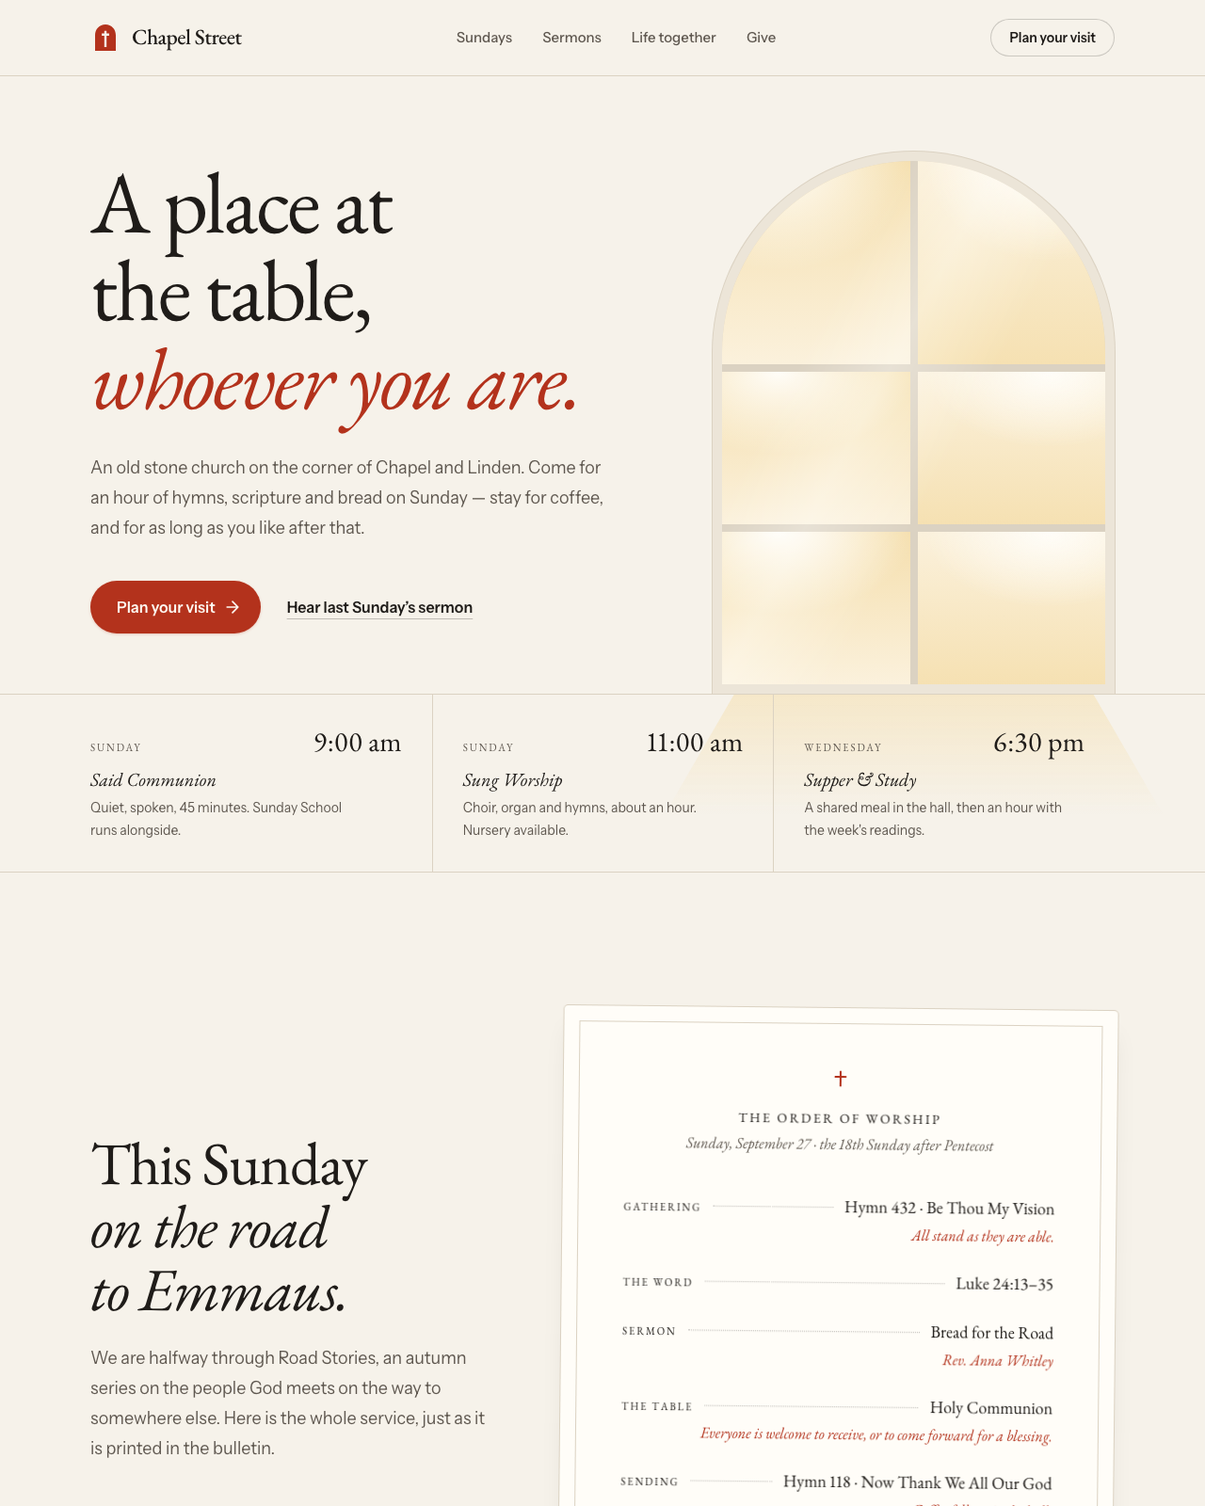
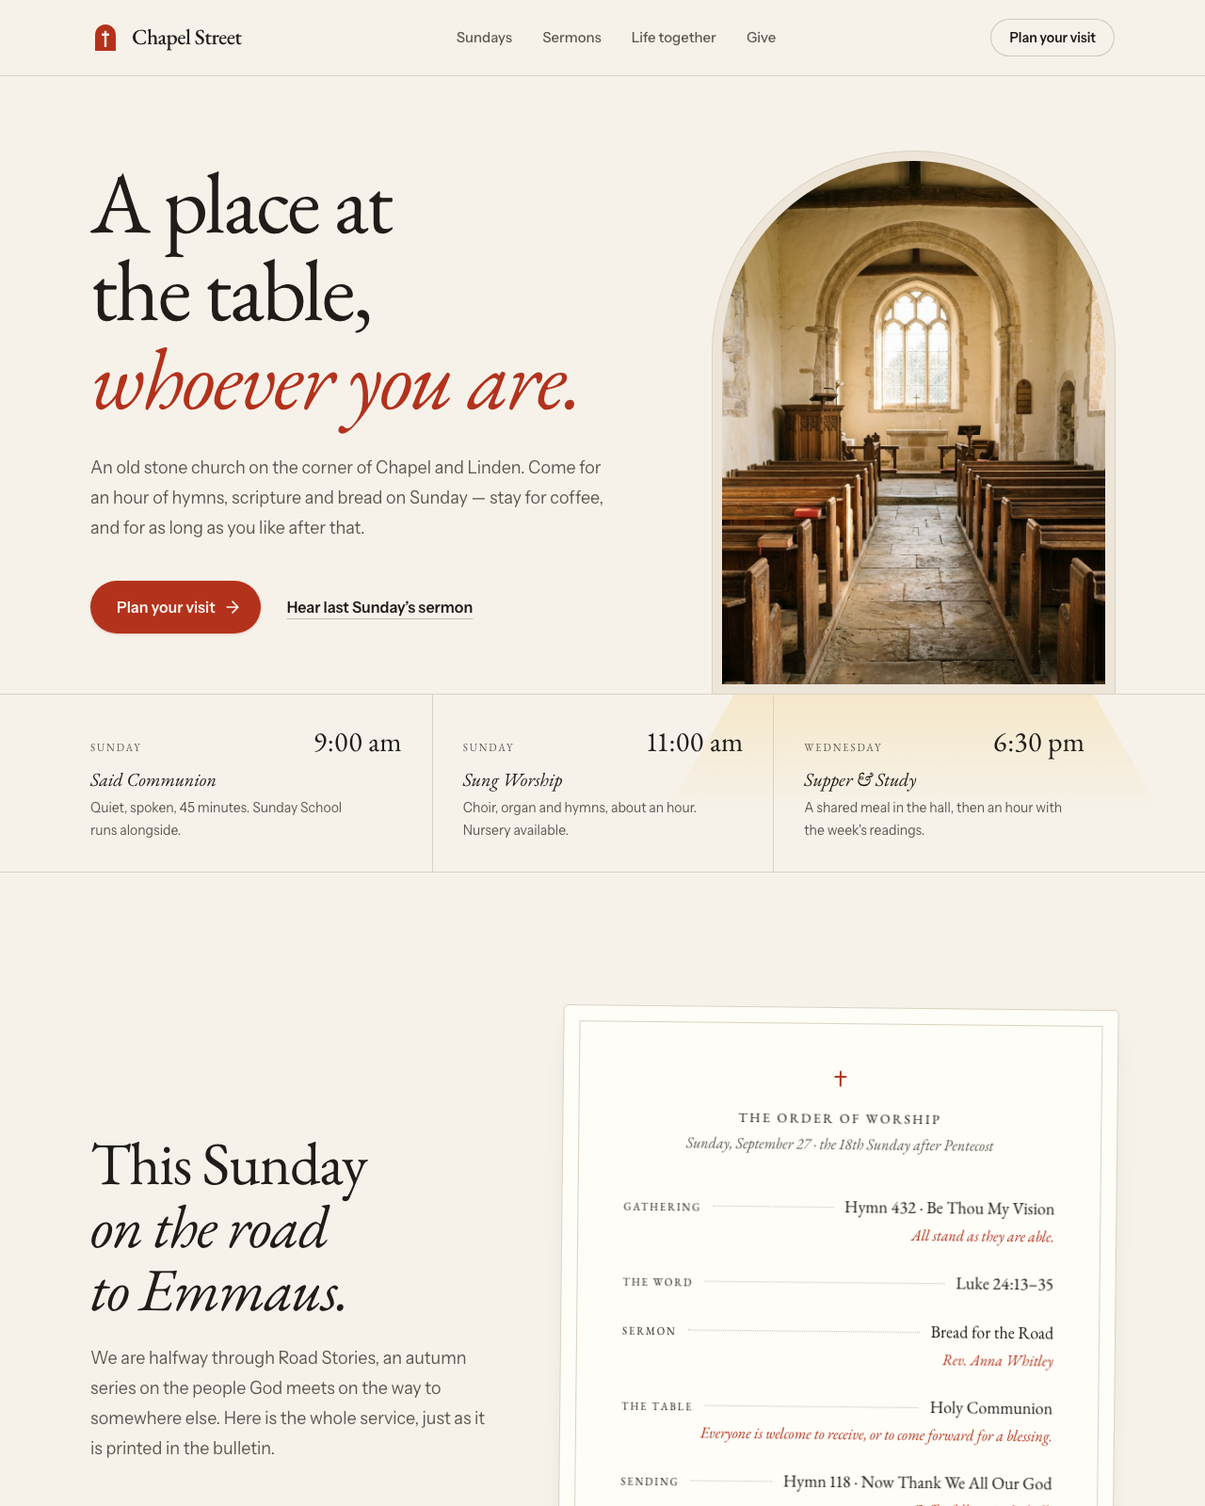
Adding latest

Changed region(s): [[0.5938, 0.0938, 0.9375, 0.4688]]

diff --git a/commons/files/resources/css/site.css b/commons/files/resources/css/site.css
@@ -37,6 +37,34 @@
     mix-blend-mode: multiply;
 }
 
+/* A photograph pulled through the blue drum: shadows print in the ink,
+   highlights stay paper. The photo is made grayscale and screened over the
+   ink, so any picture dropped in comes out in the poster's palette. */
+@utility riso-ink {
+    isolation: isolate;
+    background-color: var(--color-ink);
+
+    & > img {
+        filter: grayscale(1) contrast(1.15);
+        mix-blend-mode: screen;
+    }
+
+    &::after {
+        content: '';
+        position: absolute;
+        inset: 0;
+        background-color: var(--color-canvas);
+        mix-blend-mode: multiply;
+        pointer-events: none;
+    }
+}
+
+/* Inside the overprint sun the photograph fades out toward the headline,
+   so the words it overlaps stay on flat pink. */
+@utility riso-fade {
+    mask-image: linear-gradient(100deg, transparent 22%, #000 62%);
+}
+
 /* A hundred cents: one tick per percent of the bar's width, and every
    tenth tick runs the full height like the long marks on a ruler. Masks
    whatever colored segments sit underneath. */

diff --git a/torque/files/resources/views/components/sections/book.blade.php b/torque/files/resources/views/components/sections/book.blade.php
@@ -4,6 +4,8 @@
     'afterHoursLabel' => 'After hours?',
     'afterHours' => 'Leave your keys in the drop box by the front door with a note. We’ll call you first thing.',
     'directionsLabel' => 'Get directions',
+    'image' => '/images/shop.jpg',
+    'imageAlt' => 'The shop from the street: a white brick building with two open service bays and a car up on the lift',
 ])
 <section id="book" class="scroll-mt-18 py-20 lg:py-28">
     <div class="mx-auto grid max-w-7xl grid-cols-1 gap-14 px-5 sm:px-8 lg:grid-cols-12 lg:gap-12">
@@ -26,29 +28,34 @@
         </div>
 
         <div class="lg:col-span-5">
-            <div class="rounded-xl bg-surface p-7 ring-1 ring-line sm:p-9">
-                <h3 class="font-display text-lg font-bold tracking-wide text-ink uppercase">Hours</h3>
-                <dl class="mt-4 divide-y divide-line border-y border-line">
-                    @foreach ($hours as $row)
-                        <div class="flex justify-between gap-4 py-3 text-base">
-                            <dt class="text-muted">{{ $row->day }}</dt>
-                            <dd class="font-semibold text-ink tabular-nums">{{ $row->hours }}</dd>
-                        </div>
-                    @endforeach
-                </dl>
-                <p class="mt-4 text-base/7 text-muted sm:text-sm/6">{{ $site->hours_note }}</p>
+            <div class="overflow-hidden rounded-xl bg-surface ring-1 ring-line">
+                @if ($image)
+                    <img src="{{ $image }}" alt="{{ $imageAlt }}" width="1376" height="768" loading="lazy" decoding="async" class="aspect-[16/9] w-full border-b border-line object-cover">
+                @endif
+                <div class="p-7 sm:p-9">
+                    <h3 class="font-display text-lg font-bold tracking-wide text-ink uppercase">Hours</h3>
+                    <dl class="mt-4 divide-y divide-line border-y border-line">
+                        @foreach ($hours as $row)
+                            <div class="flex justify-between gap-4 py-3 text-base">
+                                <dt class="text-muted">{{ $row->day }}</dt>
+                                <dd class="font-semibold text-ink tabular-nums">{{ $row->hours }}</dd>
+                            </div>
+                        @endforeach
+                    </dl>
+                    <p class="mt-4 text-base/7 text-muted sm:text-sm/6">{{ $site->hours_note }}</p>
 
-                <h3 class="mt-10 font-display text-lg font-bold tracking-wide text-ink uppercase">Find the shop</h3>
-                <address class="mt-3 text-lg/8 text-ink not-italic">
-                    {{ $site->address }}<br>
-                    {{ $site->city }}
-                </address>
-                <div class="mt-5 flex flex-wrap items-center gap-x-6 gap-y-3">
-                    <a href="{{ $site->map_url }}" class="inline-flex items-center gap-2 rounded-md px-4 py-3 text-base font-semibold text-ink ring-1 ring-ink/30 transition-colors duration-150 ring-inset hover:bg-ink hover:text-canvas focus-visible:outline-2 focus-visible:outline-offset-2 focus-visible:outline-primary">
-                        <svg xmlns="http://www.w3.org/2000/svg" viewBox="0 0 20 20" fill="currentColor" class="size-5 shrink-0" aria-hidden="true"><path fill-rule="evenodd" d="m9.69 18.933.003.001C9.89 19.02 10 19 10 19s.11.02.308-.066l.002-.001.006-.003.018-.008a5.741 5.741 0 0 0 .281-.14c.186-.096.446-.24.757-.433.62-.384 1.445-.966 2.274-1.765C15.302 14.988 17 12.493 17 9A7 7 0 1 0 3 9c0 3.492 1.698 5.988 3.355 7.584a13.731 13.731 0 0 0 2.273 1.765 11.842 11.842 0 0 0 .976.544l.062.029.018.008.006.003ZM10 11.25a2.25 2.25 0 1 0 0-4.5 2.25 2.25 0 0 0 0 4.5Z" clip-rule="evenodd"/></svg>
-                        {{ $directionsLabel }}
-                    </a>
-                    <a href="mailto:{{ $site->email }}" class="rounded-sm py-2 text-base text-muted underline decoration-muted/40 underline-offset-4 transition-colors duration-150 hover:text-ink hover:decoration-ink focus-visible:outline-2 focus-visible:outline-offset-2 focus-visible:outline-primary">{{ $site->email }}</a>
+                    <h3 class="mt-10 font-display text-lg font-bold tracking-wide text-ink uppercase">Find the shop</h3>
+                    <address class="mt-3 text-lg/8 text-ink not-italic">
+                        {{ $site->address }}<br>
+                        {{ $site->city }}
+                    </address>
+                    <div class="mt-5 flex flex-wrap items-center gap-x-6 gap-y-3">
+                        <a href="{{ $site->map_url }}" class="inline-flex items-center gap-2 rounded-md px-4 py-3 text-base font-semibold text-ink ring-1 ring-ink/30 transition-colors duration-150 ring-inset hover:bg-ink hover:text-canvas focus-visible:outline-2 focus-visible:outline-offset-2 focus-visible:outline-primary">
+                            <svg xmlns="http://www.w3.org/2000/svg" viewBox="0 0 20 20" fill="currentColor" class="size-5 shrink-0" aria-hidden="true"><path fill-rule="evenodd" d="m9.69 18.933.003.001C9.89 19.02 10 19 10 19s.11.02.308-.066l.002-.001.006-.003.018-.008a5.741 5.741 0 0 0 .281-.14c.186-.096.446-.24.757-.433.62-.384 1.445-.966 2.274-1.765C15.302 14.988 17 12.493 17 9A7 7 0 1 0 3 9c0 3.492 1.698 5.988 3.355 7.584a13.731 13.731 0 0 0 2.273 1.765 11.842 11.842 0 0 0 .976.544l.062.029.018.008.006.003ZM10 11.25a2.25 2.25 0 1 0 0-4.5 2.25 2.25 0 0 0 0 4.5Z" clip-rule="evenodd"/></svg>
+                            {{ $directionsLabel }}
+                        </a>
+                        <a href="mailto:{{ $site->email }}" class="rounded-sm py-2 text-base text-muted underline decoration-muted/40 underline-offset-4 transition-colors duration-150 hover:text-ink hover:decoration-ink focus-visible:outline-2 focus-visible:outline-offset-2 focus-visible:outline-primary">{{ $site->email }}</a>
+                    </div>
                 </div>
             </div>
         </div>

diff --git a/torque/files/resources/views/components/sections/process.blade.php b/torque/files/resources/views/components/sections/process.blade.php
@@ -3,6 +3,9 @@
     'body' => 'Here’s how every job goes, from the minute you hand over the keys.',
     'estimateLabel' => 'A real estimate, the way you’ll get it',
     'warrantyLabel' => 'Every repair is covered for',
+    'image' => '/images/inspection.jpg',
+    'imageAlt' => 'A technician’s gloved hand pointing a flashlight at a worn brake pad and scored rotor',
+    'imageCaption' => 'What we found: front pads at 2 mm, rotors scored.',
 ])
 <section id="process" class="scroll-mt-18 border-y border-line bg-surface py-20 lg:py-28">
     <div class="mx-auto grid max-w-7xl grid-cols-1 gap-16 px-5 sm:px-8 lg:grid-cols-12 lg:gap-12">
@@ -40,6 +43,15 @@
                     </div>
                     <p class="rounded-md bg-surface px-3 py-1.5 font-display text-lg font-bold tracking-[0.12em] text-ink uppercase tabular-nums ring-2 ring-ink/80">{{ $site->estimate->plate }}</p>
                 </div>
+                @if ($image)
+                    <div class="border-b border-line p-3 sm:p-4">
+                        <img src="{{ $image }}" alt="{{ $imageAlt }}" width="1264" height="848" loading="lazy" decoding="async" class="aspect-[16/9] w-full rounded-md object-cover">
+                        <p class="mt-3 flex items-center gap-2.5 px-3 text-sm text-muted sm:px-4">
+                            <svg xmlns="http://www.w3.org/2000/svg" viewBox="0 0 20 20" fill="currentColor" class="size-4 shrink-0 text-ink" aria-hidden="true"><path fill-rule="evenodd" d="M1 8a2 2 0 0 1 2-2h.93a2 2 0 0 0 1.664-.89l.812-1.22A2 2 0 0 1 8.07 3h3.86a2 2 0 0 1 1.664.89l.812 1.22A2 2 0 0 0 16.07 6H17a2 2 0 0 1 2 2v7a2 2 0 0 1-2 2H3a2 2 0 0 1-2-2V8Zm13.5 3a4.5 4.5 0 1 1-9 0 4.5 4.5 0 0 1 9 0ZM10 14a3 3 0 1 0 0-6 3 3 0 0 0 0 6Z" clip-rule="evenodd"/></svg>
+                            {{ $imageCaption }}
+                        </p>
+                    </div>
+                @endif
                 <table class="w-full text-left">
                     <caption class="sr-only">Estimate line items</caption>
                     <thead class="sr-only">

diff --git a/tend/files/resources/views/components/sections/intro.blade.php b/tend/files/resources/views/components/sections/intro.blade.php
@@ -6,14 +6,14 @@
     'bodyTwo' => 'I’ve spent twelve years working with adults and couples in community clinics and private practice. You won’t get homework you didn’t ask for or jargon you have to decode. You will get someone who remembers what you said last week.',
     'approaches' => 'Emotionally Focused Therapy · CBT · ACT · Gottman Method, Level 2',
     'signature' => 'Nora',
-    'image' => '',
-    'imageAlt' => 'Portrait of Nora Lind in her Portland office',
+    'image' => '/images/nora.jpg',
+    'imageAlt' => 'Nora Lind in a slate-blue sweater, sitting in an armchair in her Portland office',
 ])
 <section id="about" aria-labelledby="about-heading" class="scroll-mt-8 py-24 lg:py-32">
     <div class="mx-auto grid max-w-6xl items-start gap-12 px-5 sm:px-8 lg:grid-cols-[5fr_7fr] lg:gap-20">
         <figure class="max-w-md lg:sticky lg:top-10">
             @if ($image)
-                <img src="{{ $image }}" alt="{{ $imageAlt }}" width="800" height="1000" loading="lazy" decoding="async" class="aspect-[4/5] w-full rounded-[1.5rem] object-cover outline-1 -outline-offset-1 outline-ink/5">
+                <img src="{{ $image }}" alt="{{ $imageAlt }}" width="928" height="1152" loading="lazy" decoding="async" class="aspect-[4/5] w-full rounded-[1.5rem] object-cover outline-1 -outline-offset-1 outline-ink/5">
             @else
                 <div class="sky-dawn relative isolate grid aspect-[4/5] w-full place-items-center overflow-hidden rounded-[1.5rem]" role="img" aria-label="{{ $imageAlt }}">
                     <div class="absolute -bottom-[34%] left-1/2 -z-10 size-[64%] -translate-x-1/2 rounded-full bg-primary blur-[1px]" aria-hidden="true"></div>

diff --git a/commons/files/resources/views/components/sections/hero.blade.php b/commons/files/resources/views/components/sections/hero.blade.php
@@ -3,6 +3,7 @@
     'body' => 'Groceries twice a week, supper every Thursday, help with the rent when a month goes wrong. Run by neighbors, out of one hall on Alder Street, since 2011.',
     'secondaryLabel' => 'Volunteer with us',
     'secondaryLink' => '/get-involved',
+    'image' => '/images/crate.jpg',
 ])
 <section class="relative overflow-hidden">
     <div class="mx-auto max-w-7xl px-5 pt-14 pb-20 sm:px-6 lg:px-8 lg:pt-20 lg:pb-28">
@@ -10,7 +11,13 @@
             <h1 data-settle class="relative max-w-[11ch] font-display text-[clamp(3.25rem,10vw,7.25rem)] leading-[0.9] font-extrabold tracking-[-0.04em] text-balance text-ink">{{ $heading }}</h1>
             <div data-drum class="overprint pointer-events-none absolute z-10 -top-6 right-[-22%] size-[clamp(12rem,48vw,40rem)] sm:-top-16 sm:right-[-6%] lg:right-[2%]" aria-hidden="true">
                 <div class="halftone absolute inset-0 translate-x-[3%] translate-y-[4%] rounded-full text-ink/15"></div>
-                <div class="absolute inset-0 rounded-full bg-primary"></div>
+                <div class="absolute inset-0 overflow-hidden rounded-full bg-primary">
+                    @if ($image)
+                        <div class="riso-ink riso-fade absolute inset-0 mix-blend-multiply">
+                            <img src="{{ $image }}" alt="" aria-hidden="true" width="1024" height="1024" class="absolute -top-[24%] -left-[15%] size-[130%] max-w-none object-cover">
+                        </div>
+                    @endif
+                </div>
             </div>
         </div>
         <div class="relative z-20 mt-12 grid gap-12 lg:mt-10 lg:grid-cols-[1fr_minmax(0,26rem)] lg:items-start lg:gap-20">

diff --git a/commons/files/resources/views/components/sections/visit.blade.php b/commons/files/resources/views/components/sections/visit.blade.php
@@ -3,6 +3,8 @@
     'body' => 'Shopping the pantry, dropping off a bag of groceries, or just curious — the door on Alder Street is open, and someone will show you around.',
     'directionsLabel' => 'Get directions',
     'closingLine' => 'Can’t make it over? Give from wherever you are.',
+    'image' => '/images/hall.jpg',
+    'imageAlt' => 'The brick hall on Alder Street with its doors propped open and a cart of grocery boxes by the entrance',
 ])
 <section id="visit" aria-labelledby="visit-heading" class="scroll-mt-20">
     <div class="mx-auto max-w-7xl px-5 py-20 sm:px-6 lg:px-8 lg:py-28">
@@ -20,6 +22,11 @@
                 <a href="{{ $site->directions_url }}" class="mt-8 inline-flex min-h-12 items-center gap-2 rounded-full px-6 font-bold text-ink ring-2 ring-ink ring-inset transition-colors duration-150 hover:bg-ink hover:text-canvas focus-visible:outline-2 focus-visible:outline-offset-2 focus-visible:outline-ink">{{ $directionsLabel }}<svg xmlns="http://www.w3.org/2000/svg" viewBox="0 0 24 24" class="size-5" aria-hidden="true"><path fill="none" stroke="currentColor" stroke-linecap="round" stroke-linejoin="round" stroke-width="2" d="M5 12h14m-7-7l7 7l-7 7"/></svg></a>
             </div>
             <div class="lg:col-span-5 lg:col-start-8">
+                @if ($image)
+                    <div class="mb-12">
+                        <x-riso :image="$image" :alt="$imageAlt"/>
+                    </div>
+                @endif
                 <h3 class="font-display text-2xl font-bold text-ink">Hours</h3>
                 <dl class="mt-5 border-b-2 border-ink">
                     @foreach ($site->hours as $row)

diff --git a/commons/files/resources/views/components/sections/mission.blade.php b/commons/files/resources/views/components/sections/mission.blade.php
@@ -4,12 +4,19 @@
     'rest' => 'Fifteen years on, the choice still shouldn’t exist — so we keep the shelves full and the door open.',
     'body' => 'Everything we do happens within a mile of the hall, and everyone who walks in is treated like a shopper, not a case number. The people deciding where the money goes live on these streets too.',
     'signoff' => 'Mara Okafor, founding volunteer',
+    'image' => '/images/pantry.jpg',
+    'imageAlt' => 'A neighbor taking a can from the pantry shelves, stocked with tins, rice and crates of apples',
 ])
 <section aria-labelledby="mission-heading" class="border-t border-line">
     <div class="mx-auto max-w-7xl px-5 py-20 sm:px-6 lg:px-8 lg:py-32">
         <h2 id="mission-heading" class="sr-only">Why we’re here</h2>
         <p class="max-w-[30ch] font-display text-[clamp(1.875rem,4vw,3.25rem)] leading-[1.12] font-semibold tracking-[-0.02em] text-ink">{{ $lead }} <mark class="box-decoration-clone bg-primary px-1.5 text-ink">{{ $highlight }}</mark> {{ $rest }}</p>
-        <div class="mt-14 grid gap-8 lg:mt-20 lg:grid-cols-12">
+        <div class="mt-14 grid items-end gap-x-8 gap-y-12 lg:mt-20 lg:grid-cols-12">
+            @if ($image)
+                <div class="max-w-xl lg:col-span-5">
+                    <x-riso :image="$image" :alt="$imageAlt"/>
+                </div>
+            @endif
             <div class="lg:col-span-6 lg:col-start-7">
                 <p class="text-lg/8 text-muted">{{ $body }}</p>
                 <p class="mt-6 flex items-center gap-3 text-base font-bold text-ink"><span class="h-0.5 w-8 bg-primary" aria-hidden="true"></span>{{ $signoff }}</p>

diff --git a/commons/files/resources/views/components/sections/involved-hero.blade.php b/commons/files/resources/views/components/sections/involved-hero.blade.php
@@ -1,6 +1,7 @@
 @props([
     'heading' => 'Give an hour. Give a Tuesday.',
     'body' => 'Most of what happens at the hall is done by volunteers — about 240 of them last year, ages 14 to 88. Pick a shift below, or find another way to pitch in.',
+    'image' => '/images/volunteers.jpg',
 ])
 <section class="relative overflow-hidden">
     <div class="mx-auto max-w-7xl px-5 pt-14 pb-16 sm:px-6 lg:px-8 lg:pt-20 lg:pb-24">
@@ -8,7 +9,13 @@
             <h1 data-settle class="relative max-w-[12ch] font-display text-[clamp(3rem,8.5vw,6.5rem)] leading-[0.92] font-extrabold tracking-[-0.04em] text-balance text-ink">{{ $heading }}</h1>
             <div data-drum class="overprint pointer-events-none absolute z-10 -top-6 right-[-24%] size-[clamp(11rem,36vw,28rem)] sm:right-[-4%] lg:right-[9%]" aria-hidden="true">
                 <div class="halftone absolute inset-0 -translate-x-[4%] translate-y-[5%] rounded-full text-ink/15"></div>
-                <div class="absolute inset-0 rounded-full bg-primary"></div>
+                <div class="absolute inset-0 overflow-hidden rounded-full bg-primary">
+                    @if ($image)
+                        <div class="riso-ink riso-fade absolute inset-0 mix-blend-multiply">
+                            <img src="{{ $image }}" alt="" aria-hidden="true" width="1024" height="1024" class="size-full object-cover">
+                        </div>
+                    @endif
+                </div>
             </div>
         </div>
         <div data-settle class="relative z-20 mt-10 flex flex-col items-start gap-8 [--i:1] lg:mt-14">

diff --git a/hem/files/resources/views/pages/shop/[piece.slug].blade.php b/hem/files/resources/views/pages/shop/[piece.slug].blade.php
@@ -50,7 +50,7 @@
                         <li>
                             <a href="{{ $other->link }}" class="group block focus-visible:outline-2 focus-visible:outline-offset-4 focus-visible:outline-ink">
                                 <div class="overflow-hidden bg-surface">
-                                    <img src="{{ $other->image }}" alt="" width="896" height="1120" loading="lazy" decoding="async" class="aspect-4/5 w-full object-cover transition-transform duration-500 ease-out group-hover:scale-[1.03]">
+                                    <img src="{{ $other->image }}" alt="" aria-hidden="true" width="896" height="1120" loading="lazy" decoding="async" class="aspect-4/5 w-full object-cover transition-transform duration-500 ease-out group-hover:scale-[1.03]">
                                 </div>
                                 <p class="mt-3 text-sm text-muted">{{ $other->brand }}</p>
                                 <h3 class="font-display text-base font-medium tracking-tight text-ink group-hover:underline group-hover:underline-offset-4 sm:text-lg">{{ $other->title }}</h3>

diff --git a/ridge/files/resources/views/components/sections/project-detail.blade.php b/ridge/files/resources/views/components/sections/project-detail.blade.php
@@ -51,7 +51,7 @@
                         @if ($other->slug != $project->slug)
                             <li class="border-b border-line">
                                 <a href="{{ $other->link }}" class="group flex items-center gap-4 py-4">
-                                    <img src="{{ $other->image }}" alt="" width="1600" height="1205" loading="lazy" decoding="async" class="aspect-square w-20 shrink-0 rounded-md object-cover">
+                                    <img src="{{ $other->image }}" alt="" aria-hidden="true" width="1600" height="1205" loading="lazy" decoding="async" class="aspect-square w-20 shrink-0 rounded-md object-cover">
                                     <span class="flex min-w-0 flex-col gap-1">
                                         <span class="font-semibold group-hover:underline group-hover:decoration-primary group-hover:decoration-2 group-hover:underline-offset-4">{{ $other->title }}</span>
                                         <span class="text-sm text-muted">{{ $other->material }} · {{ $other->place }}</span>

diff --git a/chapel/files/resources/views/components/sections/sermon-list.blade.php b/chapel/files/resources/views/components/sections/sermon-list.blade.php
@@ -27,7 +27,7 @@
                     <a href="{{ $sermon->link }}" class="group block rounded-t-full focus-visible:outline-2 focus-visible:outline-offset-4 focus-visible:outline-primary">
                         <span class="relative block aspect-[5/4] overflow-hidden sm:aspect-[4/5] rounded-t-full bg-surface ring-1 ring-line">
                             @if ($sermon->image)
-                                <img src="{{ $sermon->image }}" alt="" width="640" height="800" class="size-full object-cover">
+                                <img src="{{ $sermon->image }}" alt="" aria-hidden="true" width="640" height="800" class="size-full object-cover">
                             @else
                                 <span class="absolute inset-3 flex flex-col items-center justify-center rounded-t-full border border-line px-6 text-center" aria-hidden="true">
                                     <span class="smallcaps text-sm text-muted">{{ $sermon->series }}</span>

diff --git a/plumb/files/resources/views/components/sections/service-detail.blade.php b/plumb/files/resources/views/components/sections/service-detail.blade.php
@@ -56,7 +56,7 @@
                             @if ($other->slug != $service->slug)
                                 <li class="border-b border-line">
                                     <a href="{{ $other->link }}" class="group flex items-center gap-4 py-3.5">
-                                        <img src="{{ $other->image }}" alt="" width="1024" height="688" loading="lazy" class="size-14 shrink-0 rounded-xl object-cover">
+                                        <img src="{{ $other->image }}" alt="" aria-hidden="true" width="1024" height="688" loading="lazy" class="size-14 shrink-0 rounded-xl object-cover">
                                         <span class="flex min-w-0 flex-1 flex-col">
                                             <span class="font-semibold group-hover:text-primary">{{ $other->title }}</span>
                                             <span class="text-sm text-muted tabular-nums">{{ $other->priceFrom }}</span>
